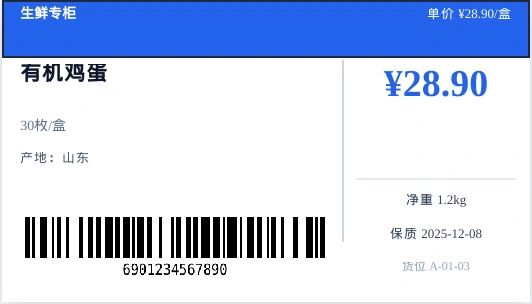
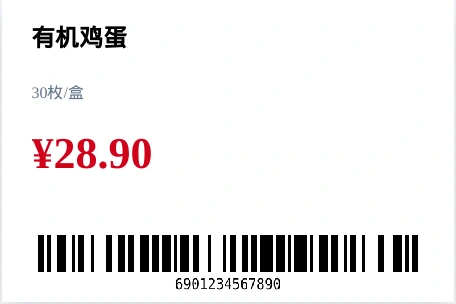
fix(marketing): simple tpl_price_tag face; hero on white /app
Marketing specimens and covers use print preview of tpl_price_tag, not
tpl_retail_shelf_70. Hero captures tpl_price_tag editor with
marketingCapture. retail-price scene pack back to tpl_grocery_price;
shelf_70 remains in template catalog only.

diff --git a/src/content/marketingAssets.js b/src/content/marketingAssets.js
@@ -1,6 +1,6 @@
 /**
  * 营销壳资产（public/marketing/*.webp）
- * 优先使用 ci64.com 打印预览/界面截图；标本图为真实模板 + 示例数据输出。
+ * Hero = 真实 /app 界面（白底、无网格）；价签标本 = 简洁内置模板打印预览（tpl_price_tag 等）。
  */
 import { SCENE_PACKS } from '../utils/scenePacks.js'
 import { getTemplateCatalog } from '../utils/templatesCatalog.js'
@@ -10,7 +10,7 @@ const BASE = '/marketing'
 const SPECIMEN = {
   priceTag: {
     src: `${BASE}/sample-price-tag.webp`,
-    alt: '签立方打印预览：货架价签 70×40 分栏版（有机鸡蛋示例）'
+    alt: '签立方打印预览：简洁价签 60×40（有机鸡蛋示例，tpl_price_tag）'
   },
   waybill: {
     src: `${BASE}/sample-waybill.webp`,
@@ -67,7 +67,6 @@ export const SCENES = {
 /** @type {Record<string, { src: string, alt: string }>} */
 export const TEMPLATE_COVERS = {
   tpl_grocery_price: SPECIMEN.priceTag,
-  tpl_retail_shelf_70: SPECIMEN.priceTag,
   tpl_express: SPECIMEN.waybill,
   tpl_asset_fixed: SPECIMEN.assetTag,
   tpl_warehouse_bin: SPECIMEN.binLabel,

diff --git a/src/utils/scenePacks.js b/src/utils/scenePacks.js
@@ -6,7 +6,7 @@ export const SCENE_PACKS = [
   {
     id: 'retail-price',
     name: '生鲜价签',
-    templateId: 'tpl_retail_shelf_70',
+    templateId: 'tpl_grocery_price',
     sampleId: 'retail',
     blurb: '品名、规格、价格、条码 — 适合超市与生鲜价签',
     mergeKeyHints: ['条码', '货号'],
